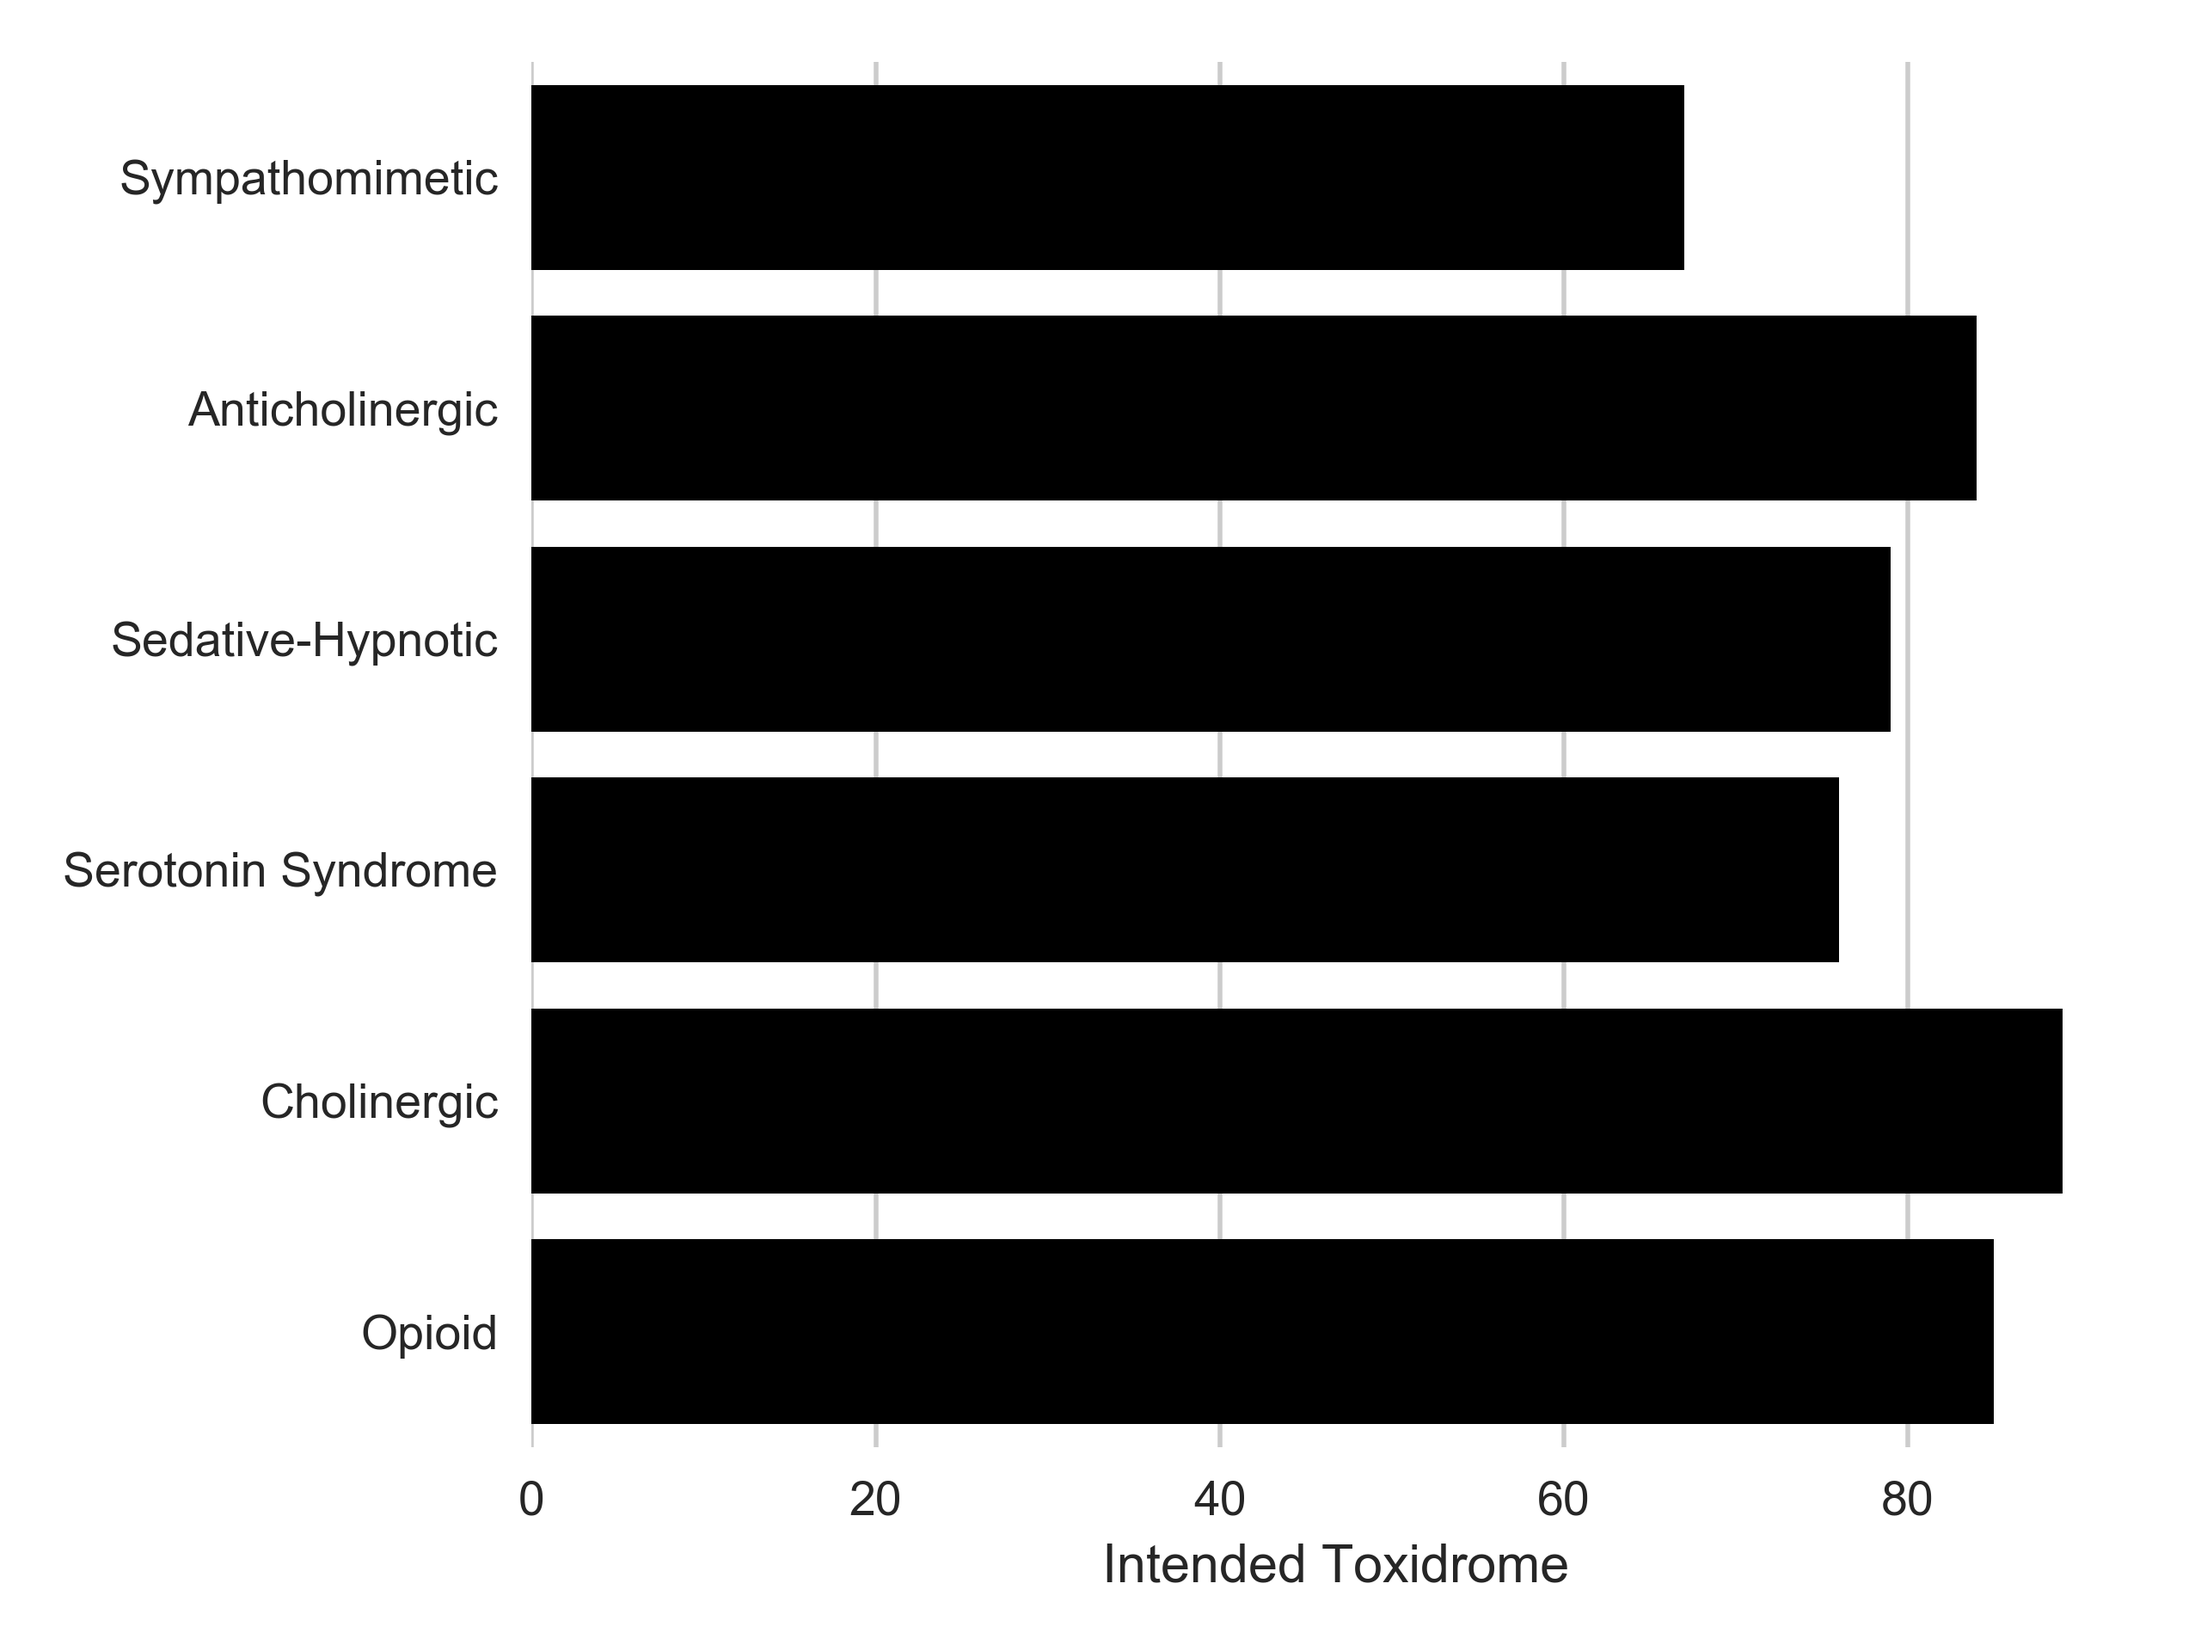
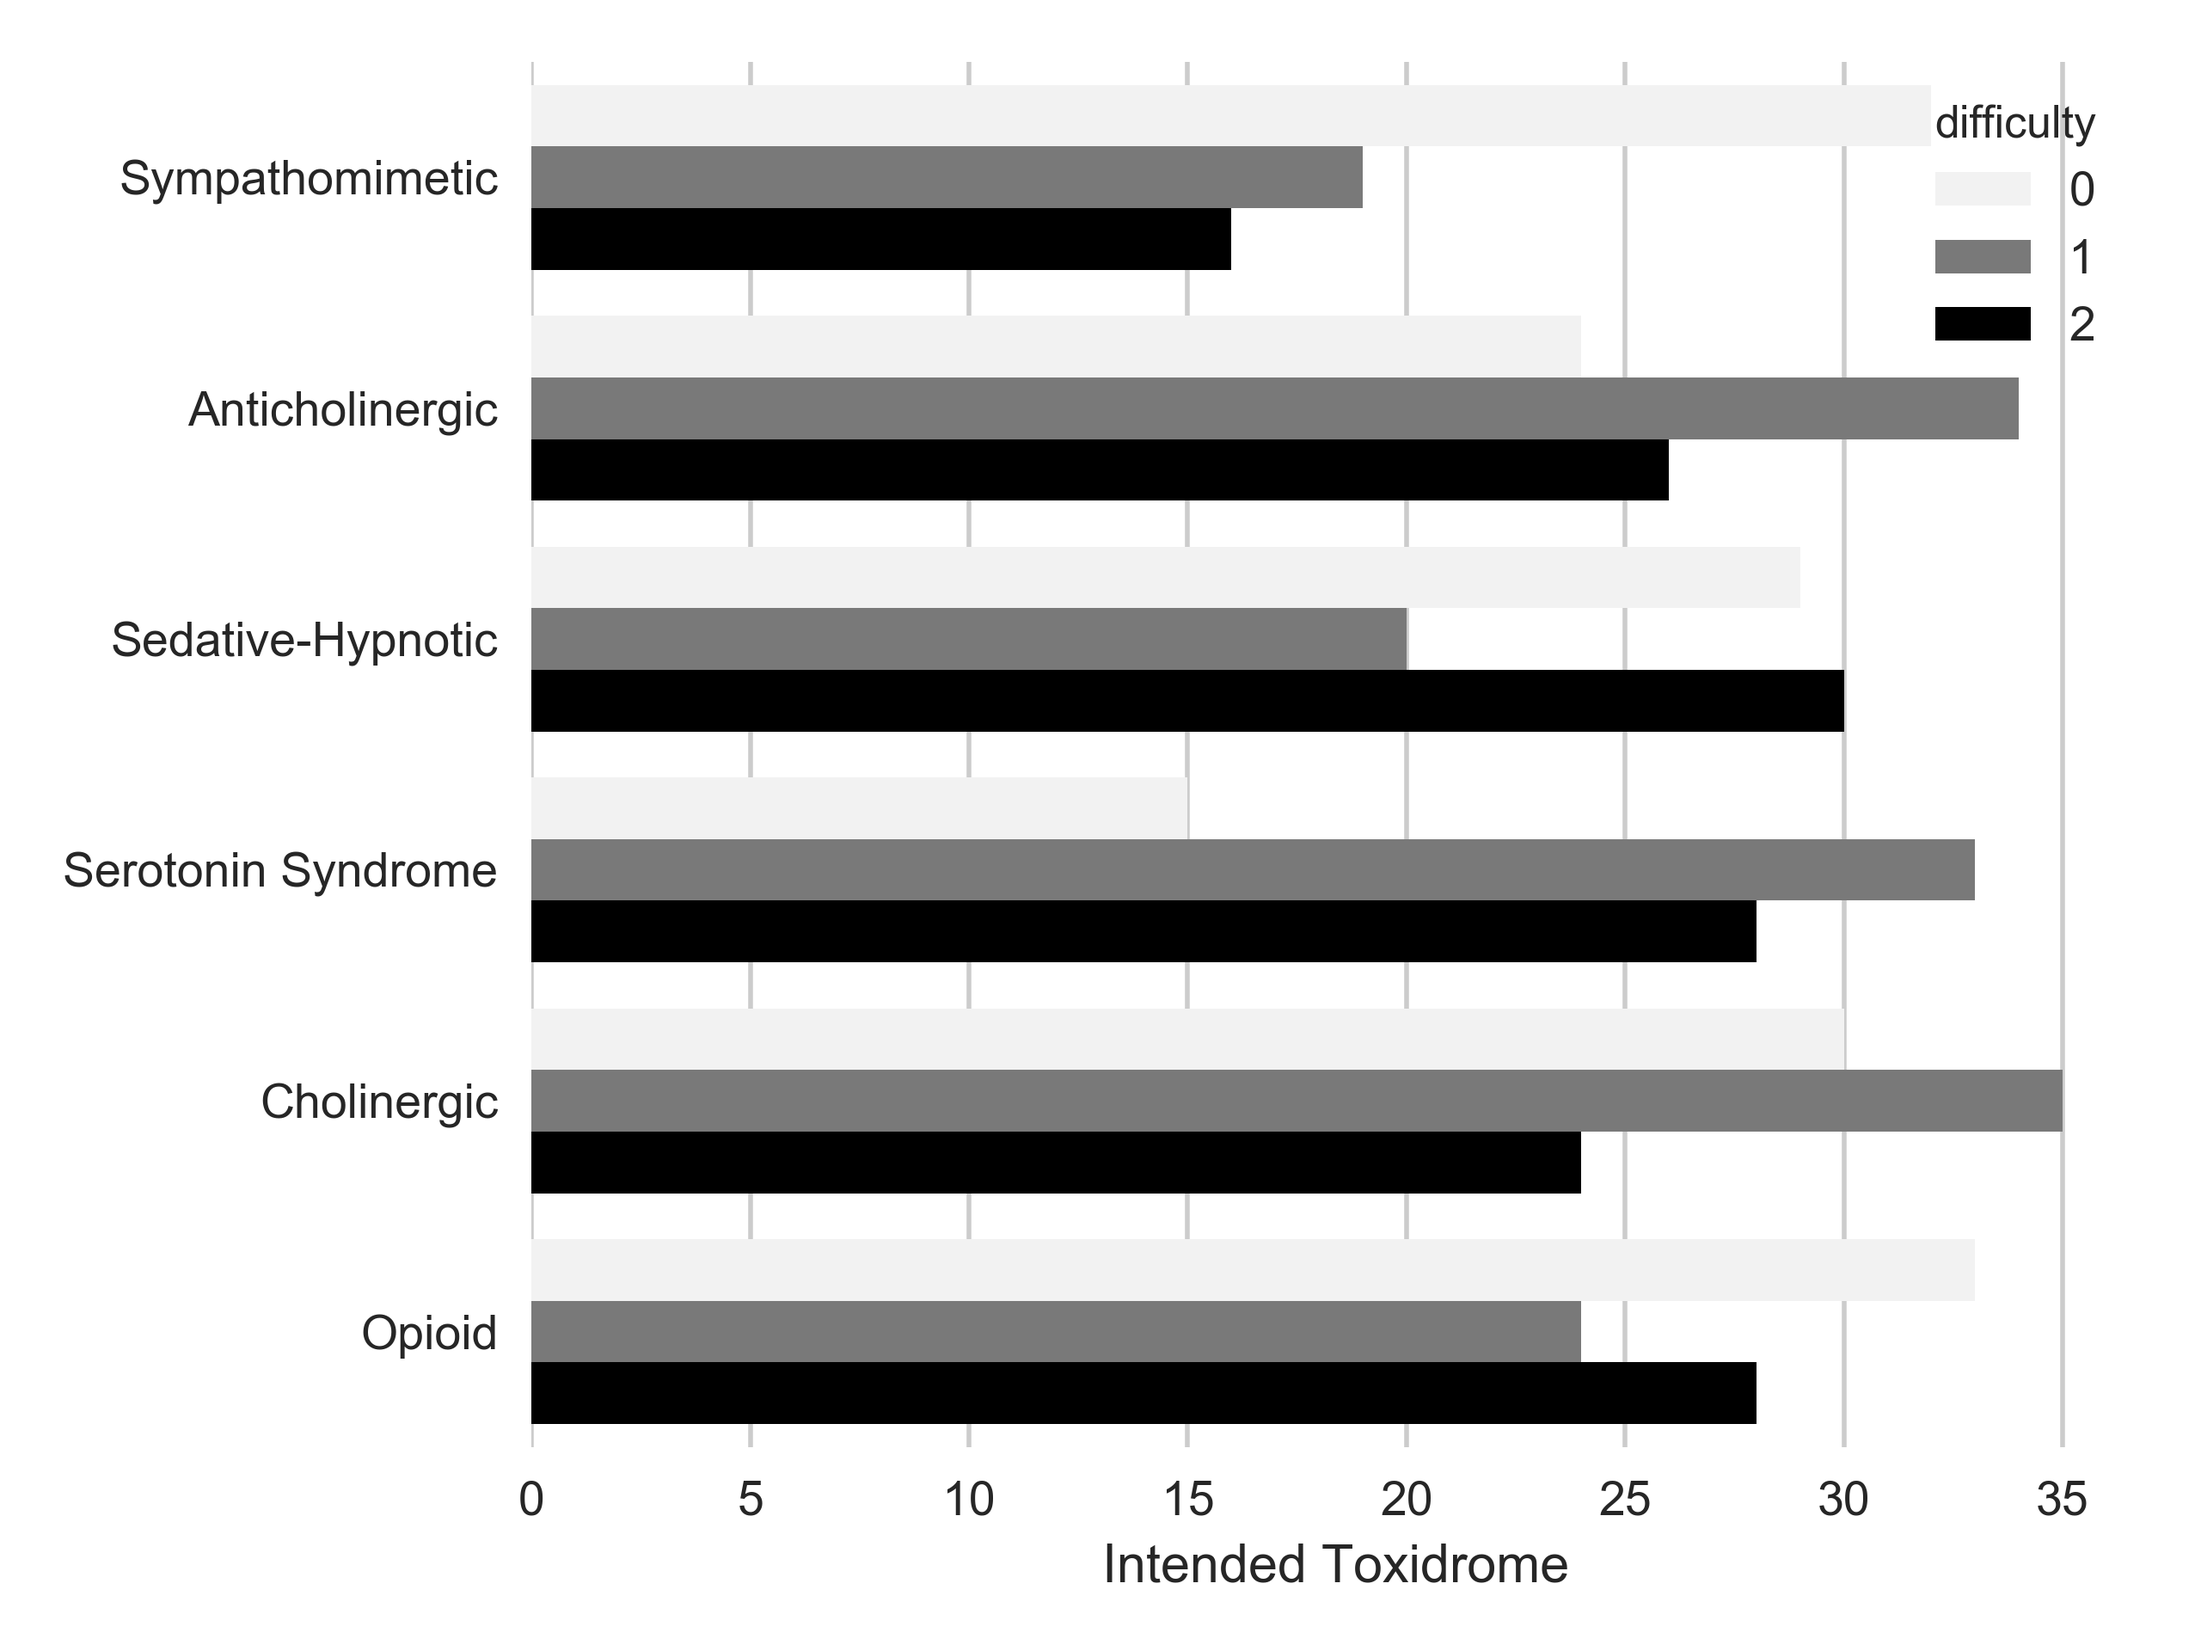
keyed initial distribution by difficulty

diff --git a/src/plot-distribution-of-cases.py b/src/plot-distribution-of-cases.py
@@ -10,7 +10,7 @@ sns.set(style="whitegrid")
 fig = plt.figure()
 ax = fig.add_subplot(111)
 
-sns.countplot(y="intended_toxidrome", data=df, color='k')
+sns.countplot(y="intended_toxidrome", data=df, color='k', hue='difficulty')
 sns.despine(left=True, bottom=True)
 
 ax.set_ylabel("")
